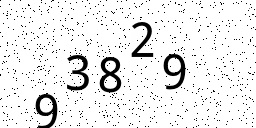
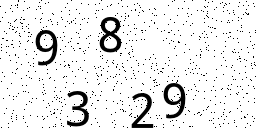
fix: 🐛

diff --git a/src/lib.rs b/src/lib.rs
@@ -39,15 +39,19 @@ fn generate(text: String) -> ImageBuffer<Rgb<u8>, Vec<u8>> {
     img
 }
 
-#[wasm_bindgen]
-pub fn generate_image(text: String) -> Vec<u8> {
-    let img = generate(text);
+fn convert_to_bytes(img: ImageBuffer<Rgb<u8>, Vec<u8>>) -> Vec<u8> {
     let mut png_data = Vec::new();
     let encoder = image::codecs::png::PngEncoder::new(&mut png_data);
     encoder
-        .write_image(&img, 512, 256, image::ColorType::Rgb8)
+        .write_image(&img, 256, 128, image::ColorType::Rgb8)
         .unwrap();
     png_data
+}
+
+#[wasm_bindgen]
+pub fn generate_image(text: String) -> Vec<u8> {
+    let img = generate(text);
+    convert_to_bytes(img)
 }
 
 pub fn add(left: usize, right: usize) -> usize {
@@ -62,6 +66,7 @@ mod tests {
     fn it_works() {
         let result = add(2, 2);
         let img = generate("93829".to_string());
+        convert_to_bytes(img.clone());
         img.save("sample.png").unwrap();
         assert_eq!(result, 4);
     }
